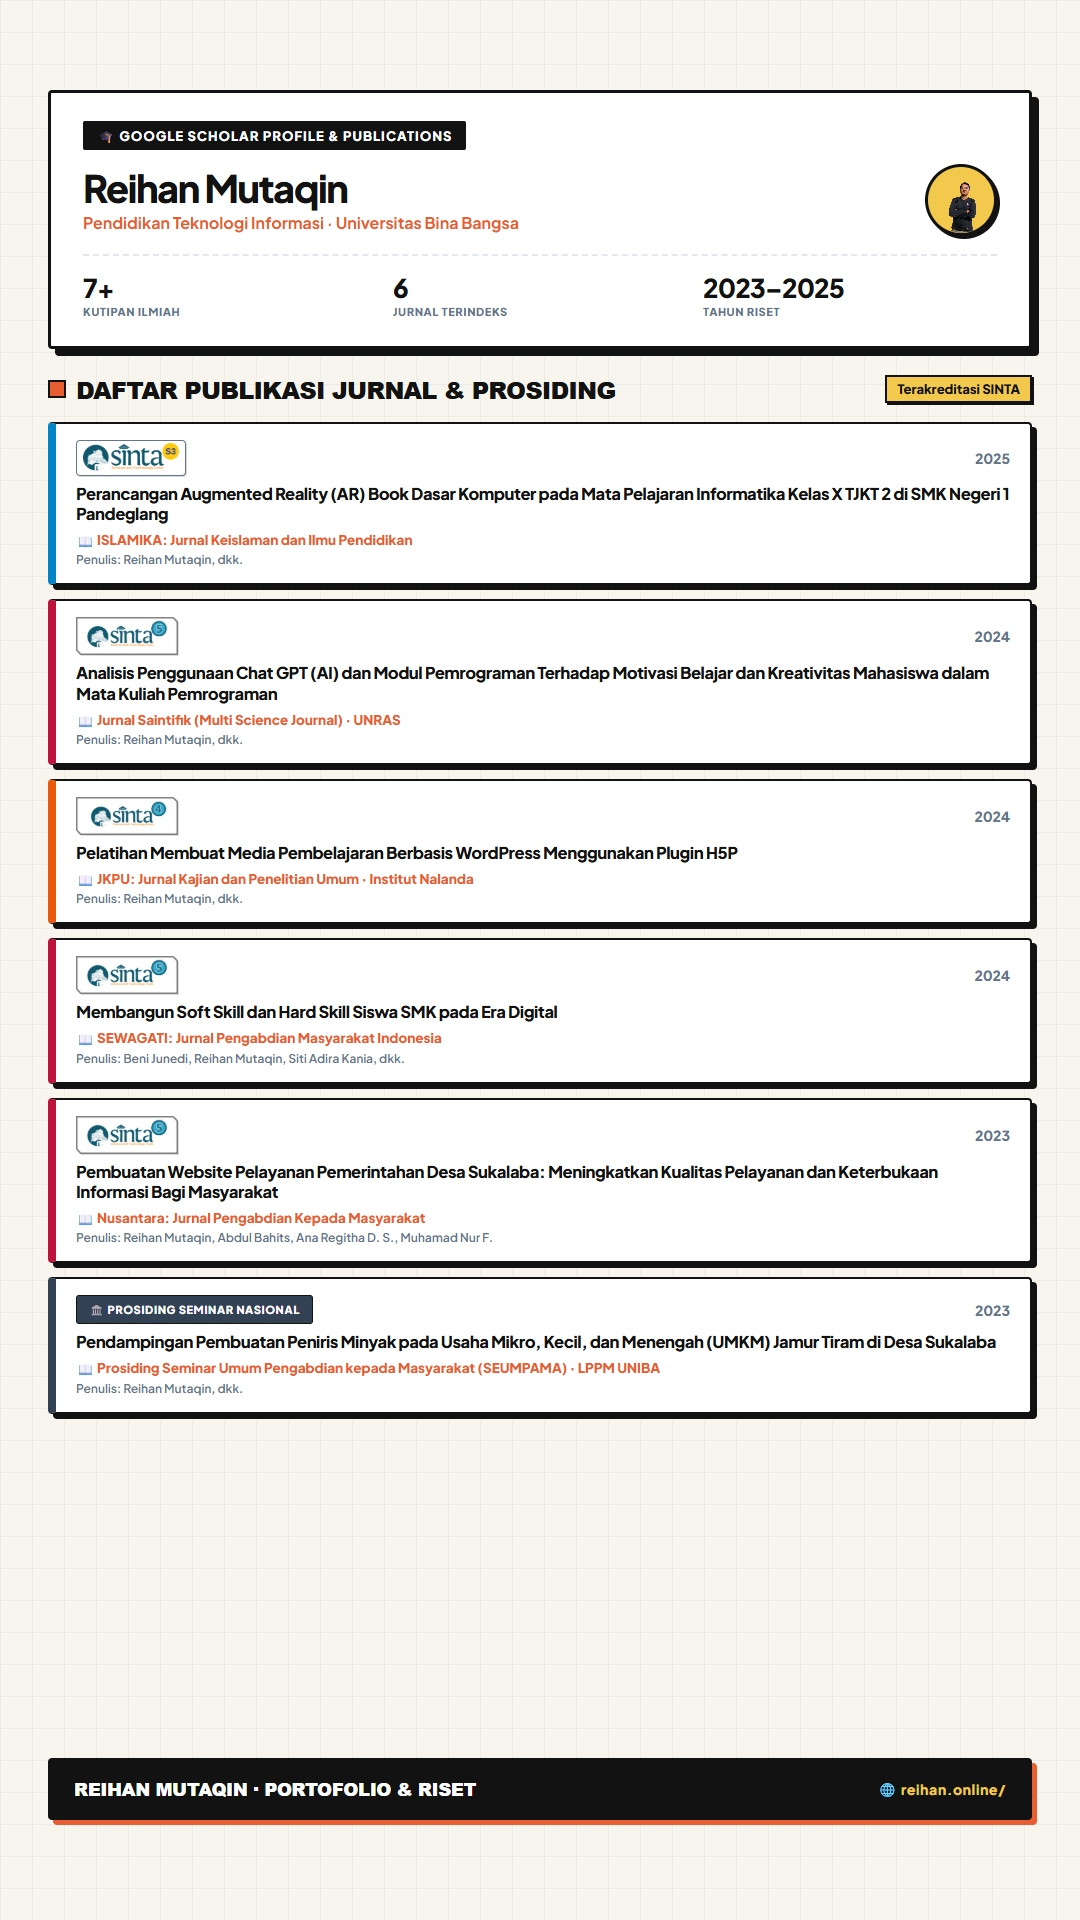
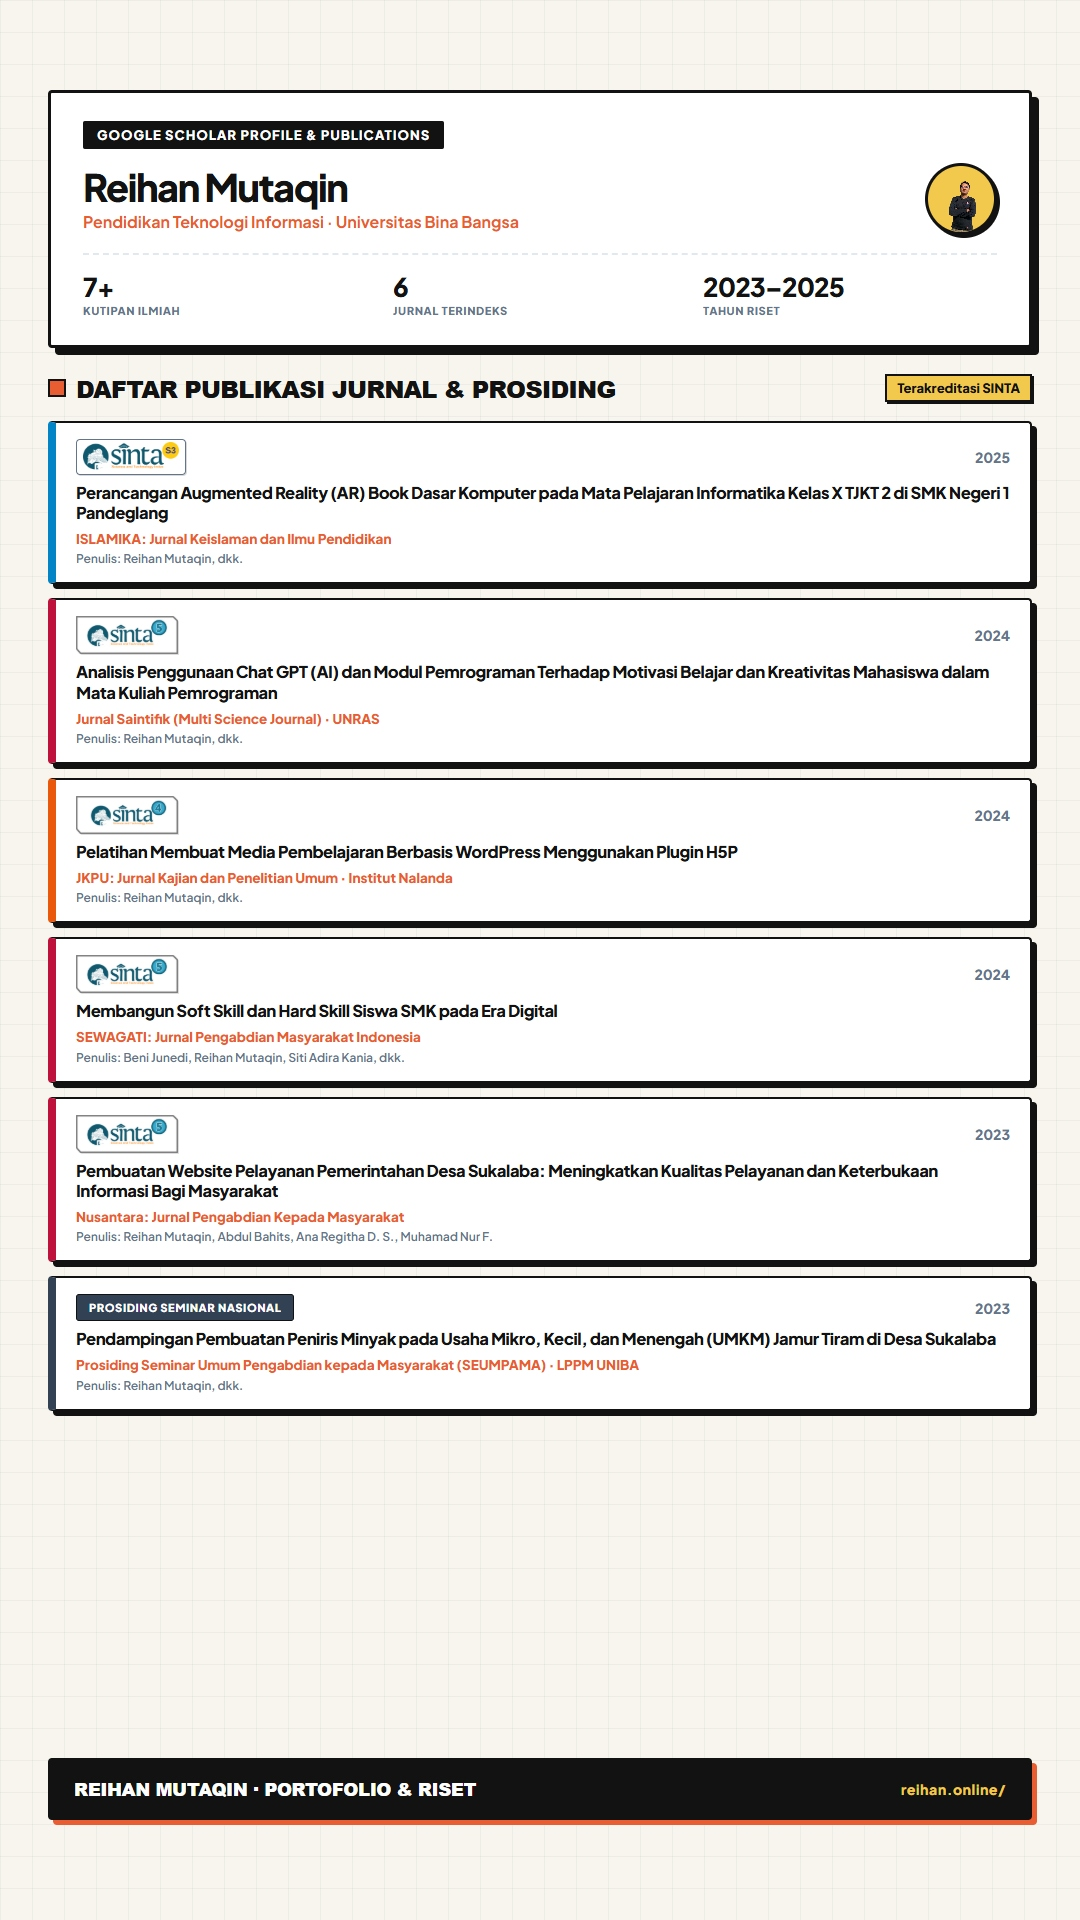
feat(publikasi): perbarui tombol menjadi JPG minimalis dengan ikon download bersih tanpa emoji

diff --git a/src/index.css b/src/index.css
@@ -953,14 +953,16 @@ ul {
 
 .scholar-hero__actions {
   display: flex;
-  flex-direction: column;
+  flex-direction: row;
+  align-items: center;
   gap: 10px;
   flex-shrink: 0;
+  flex-wrap: wrap;
 }
 
 @media (min-width: 821px) {
   .scholar-hero__actions {
-    align-items: flex-end;
+    justify-content: flex-end;
   }
 }
 
@@ -970,8 +972,24 @@ ul {
 }
 
 .scholar-hero__cta--download {
-  font-size: 0.8rem;
-  padding: 10px 16px;
+  display: inline-flex;
+  align-items: center;
+  justify-content: center;
+  gap: 6px;
+  font-size: 0.78rem;
+  font-weight: 800;
+  padding: 12px 18px;
+  background: var(--paper);
+  border: 1.5px solid var(--ink);
+  color: var(--ink);
+  letter-spacing: 0.05em;
+  box-shadow: 2.5px 2.5px 0 var(--ink);
+}
+
+.scholar-hero__cta--download:hover {
+  background: var(--ink);
+  color: #ffffff;
+  box-shadow: 3.5px 3.5px 0 var(--ink);
 }
 
 .publications-grid {

diff --git a/src/App.tsx b/src/App.tsx
@@ -978,10 +978,10 @@ function App() {
               <a
                 className="button button--ghost hover-lift scholar-hero__cta scholar-hero__cta--download"
                 href="/downloads/status-whatsapp-reihan-hd.jpg"
-                download="Status-WA-Publikasi-Reihan-Mutaqin.jpg"
-                aria-label="Unduh gambar poster WhatsApp Status publikasi jurnal"
+                download="Publikasi-Reihan-Mutaqin-HD.jpg"
+                aria-label="Unduh gambar JPG publikasi"
               >
-                Unduh Status WA (JPG)
+                <Download size={14} aria-hidden="true" /> JPG
               </a>
             </div>
           </div>
